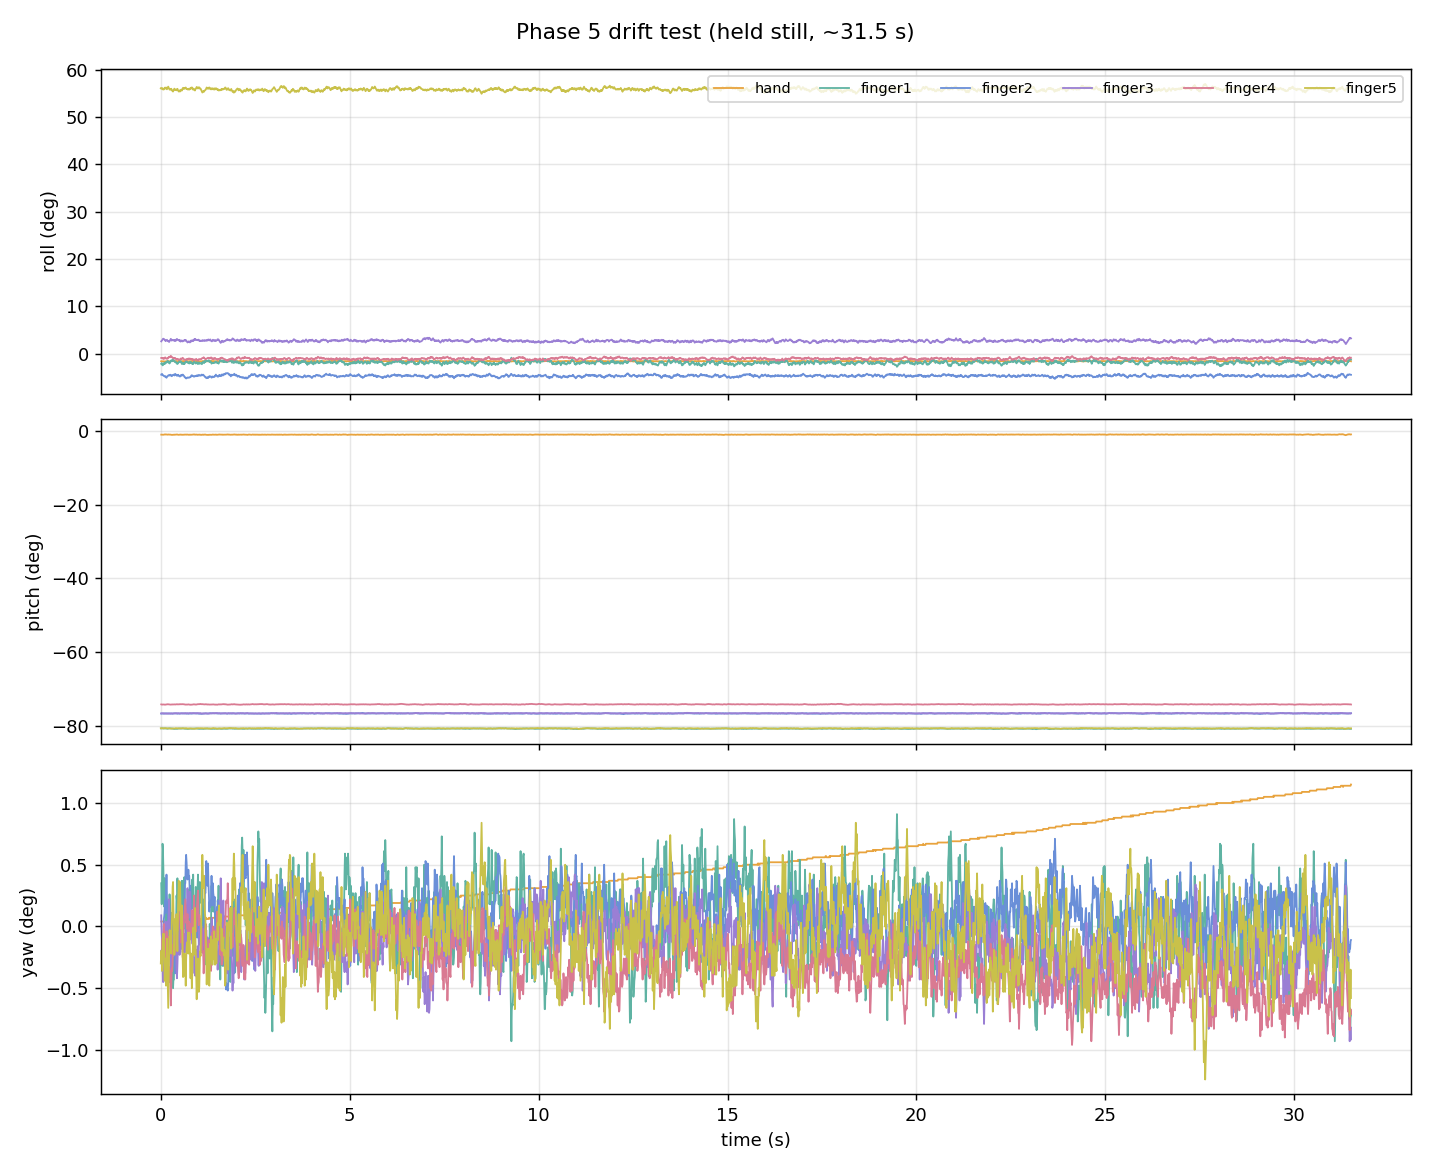
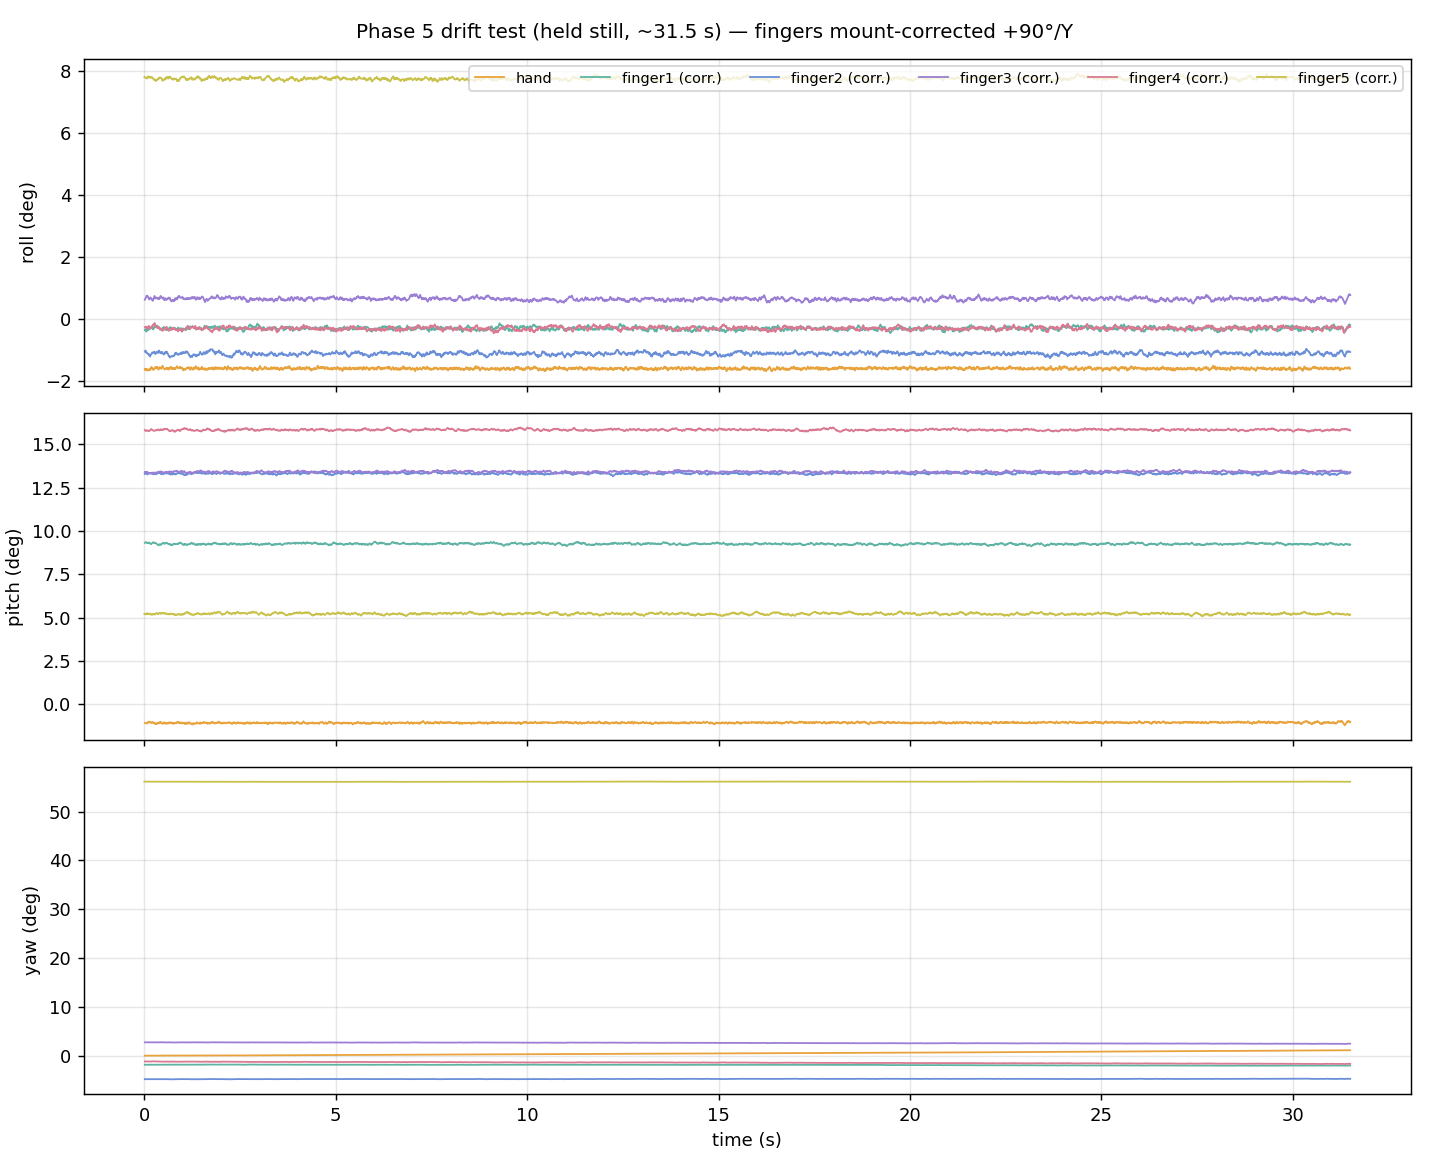
fix(phase-5): correct plot_fusion.py column bug, add mount-angle correction + finding
plot_fusion.py had an indexing bug plotting raw millis as roll. Fixed, and
added a verified +90deg/local-Y correction for finger sensors so plots are
comparable to the hand sensor - the ~90deg gap between hand and finger
absolute pitch is a breadboard mounting-angle artifact (fingers plugged in
upright, hand lying flatter), not a sensor fault. Finger 5 doesn't line up
under the same correction, pointing at a genuinely different mount angle
for that sensor rather than just higher noise. Logged as a decision.

diff --git a/tools/plot_fusion.py b/tools/plot_fusion.py
@@ -10,12 +10,29 @@ what the filter output actually does over time: does roll/pitch sit flat
 when the rig is still, does yaw creep, does anything jump or go flat
 (a stuck/dead sensor's line would flatline).
 
+Mounting correction (on by default, --no-mount-correction to disable):
+The finger MPU-6050 breakout modules are plugged straight into the
+breadboard (standing upright on their pin legs), while the XIAO (hand,
+sensor 0) sits closer to flat. That ~90 degree difference in physical
+mounting angle - not a sensor fault - is why raw finger pitch reads
+~-75 to -80 deg while the hand reads ~0 deg even though everything sits on
+the same breadboard (see DOCUMENTATION.md / DECISIONS.md, 2026-07-17).
+This script applies a fixed +90 deg rotation about each finger sensor's
+own local Y-axis (q_corrected = q_raw (x) q_offset) before computing Euler
+angles, purely so the plot is easier to eyeball against the hand sensor.
+This is NOT the real Phase 6 q_rel = conj(q_hand) (x) q_finger computation -
+it's a rough, fixed, hand-picked correction for this one rig's approximate
+mounting angle, not derived per-session from data. Finger 5 does NOT line
+up under this correction as well as fingers 1-4 do, which is itself a
+finding: it's mounted at a distinctly different angle, not just noisier.
+
 Usage:
     python plot_fusion.py ../data/phase5_madgwick_fusion/capture_02_drift.csv \
         --save ../docs/media/phase5_drift_rpy.png --title "Drift test (held still)"
 """
 
 import argparse
+import math
 from collections import defaultdict
 from pathlib import Path
 
@@ -24,8 +41,35 @@ import matplotlib.pyplot as plt
 SENSOR_NAMES = {0: "hand", 1: "finger1", 2: "finger2", 3: "finger3", 4: "finger4", 5: "finger5"}
 COLORS = {0: "#e8a33d", 1: "#5fb3a3", 2: "#6a8fd8", 3: "#9a7fd4", 4: "#d97a92", 5: "#c9c14a"}
 
+# Fixed rough mount correction: +90 deg about local Y, applied to finger
+# sensors only (sensor_id != 0). See module docstring for why.
+_MOUNT_CORRECTION_Q = (math.cos(math.radians(45)), 0.0, math.sin(math.radians(45)), 0.0)
+
+
+def qmul(a, b):
+    """Hamilton product a (x) b, both (w,x,y,z)."""
+    aw, ax, ay, az = a
+    bw, bx, by, bz = b
+    return (
+        aw * bw - ax * bx - ay * by - az * bz,
+        aw * bx + ax * bw + ay * bz - az * by,
+        aw * by - ax * bz + ay * bw + az * bx,
+        aw * bz + ax * by - ay * bx + az * bw,
+    )
+
+
+def quat_to_euler_deg(q):
+    """Same roll/pitch/yaw convention as the firmware's quatToEuler()."""
+    w, x, y, z = q
+    roll = math.atan2(2 * (w * x + y * z), 1 - 2 * (x * x + y * y))
+    s = max(-1.0, min(1.0, 2 * (w * y - z * x)))
+    pitch = math.asin(s)
+    yaw = math.atan2(2 * (w * z + x * y), 1 - 2 * (y * y + z * z))
+    return tuple(math.degrees(v) for v in (roll, pitch, yaw))
+
 
 def load(path: Path):
+    """Returns {sid: [(ms, qw,qx,qy,qz), ...]}."""
     rows = defaultdict(list)
     with path.open(encoding="utf-8", errors="replace") as f:
         for line in f:
@@ -38,10 +82,10 @@ def load(path: Path):
             try:
                 ms = int(parts[0])
                 sid = int(parts[1])
-                roll, pitch, yaw = float(parts[6]), float(parts[7]), float(parts[8])
+                q = tuple(float(x) for x in parts[2:6])
             except ValueError:
                 continue
-            rows[sid].append((ms, roll, pitch, yaw))
+            rows[sid].append((ms, q))
     return rows
 
 
@@ -60,6 +104,8 @@ def main():
     ap.add_argument("csv", type=Path)
     ap.add_argument("--save", type=Path, default=None)
     ap.add_argument("--title", default=None)
+    ap.add_argument("--no-mount-correction", action="store_true",
+                     help="plot raw per-sensor Euler angles, skip the +90deg/Y finger correction")
     args = ap.parse_args()
 
     rows = load(args.csv)
@@ -73,11 +119,21 @@ def main():
     labels = ["roll (deg)", "pitch (deg)", "yaw (deg)"]
     for sid in sorted(rows):
         r = rows[sid]
-        t = [(ms - t0) / 1000.0 for ms, *_ in r]
-        roll = unwrap_deg([v[1] for v in r])
-        pitch = unwrap_deg([v[2] for v in r])
-        yaw = unwrap_deg([v[3] for v in r])
+        t = [(ms - t0) / 1000.0 for ms, _ in r]
+
+        apply_corr = sid != 0 and not args.no_mount_correction
+        eulers = []
+        for _, q in r:
+            qc = qmul(q, _MOUNT_CORRECTION_Q) if apply_corr else q
+            eulers.append(quat_to_euler_deg(qc))
+
+        roll = unwrap_deg([e[0] for e in eulers])
+        pitch = unwrap_deg([e[1] for e in eulers])
+        yaw = unwrap_deg([e[2] for e in eulers])
+
         name = SENSOR_NAMES.get(sid, str(sid))
+        if apply_corr:
+            name += " (corr.)"
         color = COLORS.get(sid, "#888888")
         for ax, series in zip(axes, (roll, pitch, yaw)):
             ax.plot(t, series, label=name, color=color, linewidth=1)
@@ -87,7 +143,10 @@ def main():
         ax.grid(alpha=0.3)
     axes[0].legend(loc="upper right", ncol=6, fontsize=8)
     axes[-1].set_xlabel("time (s)")
-    fig.suptitle(args.title or f"Phase 5 fused orientation - {args.csv.name}")
+    default_title = f"Phase 5 fused orientation - {args.csv.name}"
+    if not args.no_mount_correction:
+        default_title += "\n(fingers rotated +90deg/local-Y to roughly align with hand sensor for comparison)"
+    fig.suptitle(args.title or default_title, fontsize=11)
     fig.tight_layout()
 
     if args.save:

diff --git a/data/phase5_madgwick_fusion/README.md b/data/phase5_madgwick_fusion/README.md
@@ -114,23 +114,71 @@ number, until a multi-minute capture confirms them.
 ```bash
 cd tools
 python plot_fusion.py ../data/phase5_madgwick_fusion/capture_02_drift.csv \
-    --save ../docs/media/phase5_drift_rpy.png --title "Phase 5 drift test (held still, ~31.5 s)"
+    --save ../docs/media/phase5_drift_rpy.png
 python plot_fusion.py ../data/phase5_madgwick_fusion/capture_01_movement.csv \
-    --save ../docs/media/phase5_movement_rpy.png --title "Phase 5 movement test (~29.5 s)"
+    --save ../docs/media/phase5_movement_rpy.png
+# pass --no-mount-correction to see the raw, uncorrected per-sensor angles instead
 ```
 
-`docs/media/phase5_drift_rpy.png` — roll/pitch/yaw vs. time, one line per
-sensor, unwrapped so ±180° crossings don't show as vertical jumps. Confirms
-the table above visually: roll and pitch sit flat for the full 31.5 s, yaw
-is a tight noise band for the fingers with the hand sensor showing a small,
-slow upward creep.
+Both plots apply a fixed **+90° rotation about each finger sensor's local
+Y-axis** (`q_corrected = q_raw ⊗ q_offset`) before computing Euler angles,
+purely to make the fingers visually comparable to the hand sensor — see
+"Why hand and finger angles differ so much" below and DECISIONS.md
+(2026-07-17) for what this correction is and isn't.
 
-`docs/media/phase5_movement_rpy.png` — same plot for the movement capture.
-Useful as a qualitative sanity check ahead of Phase 6: the five finger
-traces move together as one tight cluster through every swing, while the
-hand sensor's trace diverges independently — exactly the "fingers move
-coherently, hand is a separate reference" structure that `q_rel = conj(q_hand)
-⊗ q_finger` depends on.
+`docs/media/phase5_drift_rpy.png` — roll/pitch/yaw vs. time, one line per
+sensor, unwrapped so ±180° crossings don't show as vertical jumps. With the
+mount correction applied, roll and yaw for fingers 1-4 sit close to the
+hand's baseline (within a few degrees), pitch settles to a small residual
+9-16° per finger (their real resting tilt, not mounting error) — and
+finger 5 visibly does **not** line up the way 1-4 do, sitting apart on all
+three axes. Confirms the table above: everything stays flat for the full
+31.5 s (no drift), and finger 5 is mounted differently, not just noisier.
+
+`docs/media/phase5_movement_rpy.png` — same correction, movement capture.
+Useful as a qualitative sanity check ahead of Phase 6: with the mount
+correction applied, the five finger traces move together as one cluster
+through every swing (finger 5 tracking the same shape but visibly offset),
+while the hand sensor's trace diverges independently — exactly the
+"fingers move coherently, hand is a separate reference" structure that
+`q_rel = conj(q_hand) ⊗ q_finger` depends on.
+
+### Why hand and finger angles differ so much on the same breadboard
+
+Absolute roll/pitch/yaw are **per-sensor-local** - each IMU reports its tilt
+relative to gravity in its *own* body frame, not a frame shared across
+sensors. Two chips on the same breadboard can report very different
+numbers simply because they're tilted differently, and that's exactly
+what's happening here: the finger MPU-6050 breakout modules are plugged
+straight into the breadboard rows (standing upright on their pin legs),
+while the XIAO (hand, sensor 0) sits closer to flat. That's roughly a 90°
+difference in physical mounting angle, and it shows up almost exactly that
+way in the data - raw finger pitch sits near -75° to -80° while the hand
+sits near 0°.
+
+Verified with actual quaternion math (not just eyeballed): applying a fixed
++90° rotation about each finger sensor's local Y-axis
+(`q_corrected = q_raw ⊗ q_offset`, `q_offset` = 90° about Y) brings fingers
+1-4's roll and yaw into close agreement with the hand sensor, e.g. finger 1
+goes from raw `(roll=-2.1, pitch=-80.7, yaw=0.3)` to corrected
+`(roll=-0.4, pitch=9.3, yaw=-1.8)` against the hand's `(-1.6, -1.1, 0.0)` -
+close on roll and yaw, with the remaining ~9-16° of pitch being each
+finger's actual resting tilt on the bench, not mounting error.
+
+**Finger 5 does not follow the same pattern** - the identical correction
+leaves it out of alignment with the other four (its yaw stays near 56°
+instead of settling near 0 like fingers 1-4's ~-2 to +3°). Combined with
+finger 5's consistently elevated gyro noise across every capture so far,
+this points at finger 5 being seated in its breadboard slot at a genuinely
+different angle than the other four, not merely a noisier unit. Worth a
+physical check before glove-mounting.
+
+This is expected behavior, not a bug, and doesn't need fixing for the real
+pipeline - it's exactly why Phase 6 computes `q_rel = conj(q_hand) ⊗
+q_finger` instead of comparing absolute angles. The `+90°/Y` correction
+here is a one-off, hand-picked constant for making *this rig's* plots
+readable; it is explicitly not that calculation and won't carry over once
+sensors are mounted on the glove at their intended angles.
 
 ### Movement capture (`capture_01_movement.csv`)
 
